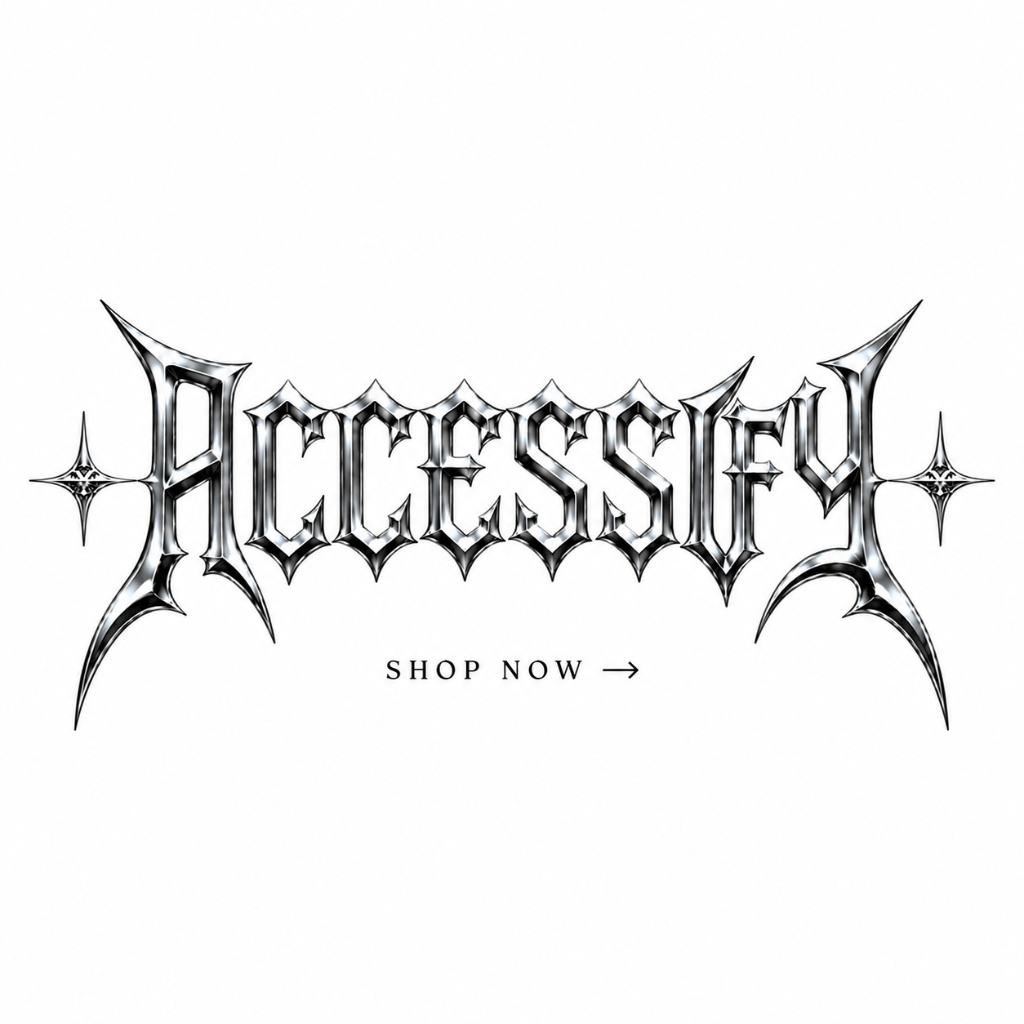
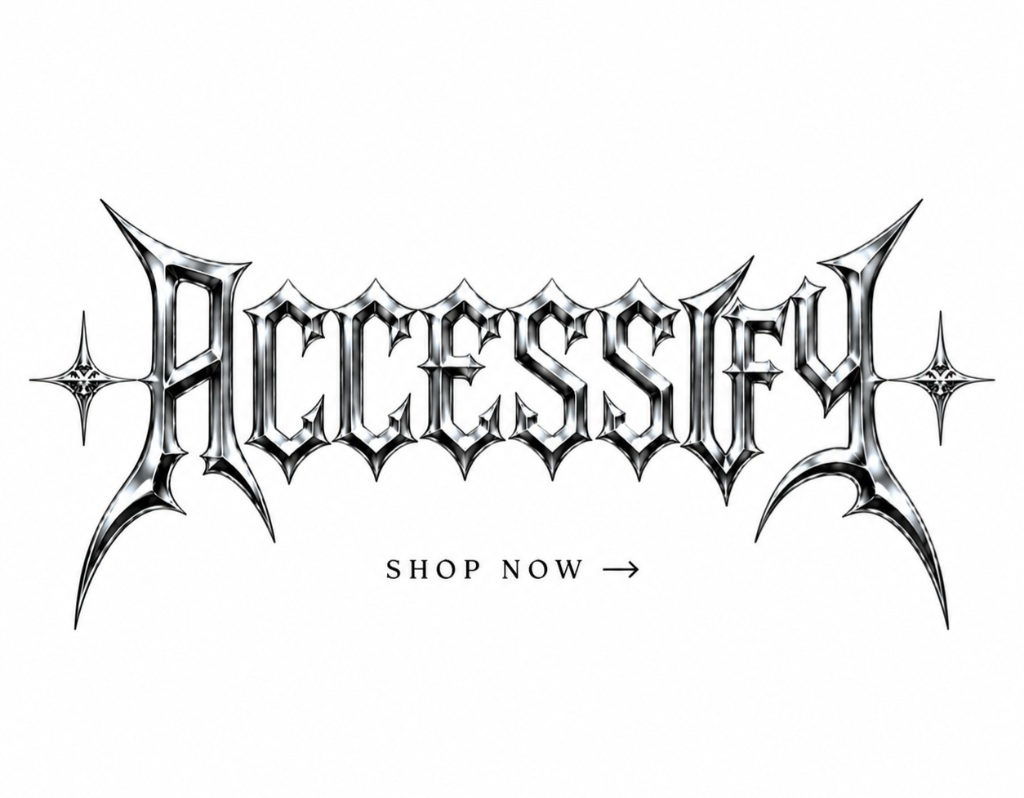
feat: update front hero image to high-res centered chrome graphic

diff --git a/src/pages/Home.js b/src/pages/Home.js
@@ -123,7 +123,7 @@ export const Home = () => {
                     <a href="#/shop" class="cosmora-hero-banner" aria-label="Shop Accessify Collection">
                         <img 
                             class="cosmora-hero-banner-img" 
-                            src="assets/images/hero-banner.jpg" 
+                            src="assets/images/hero-banner.png?v=3" 
                             alt="Accessify | Premium Streetwear & Gothic Jewelry" 
                         />
                     </a>
